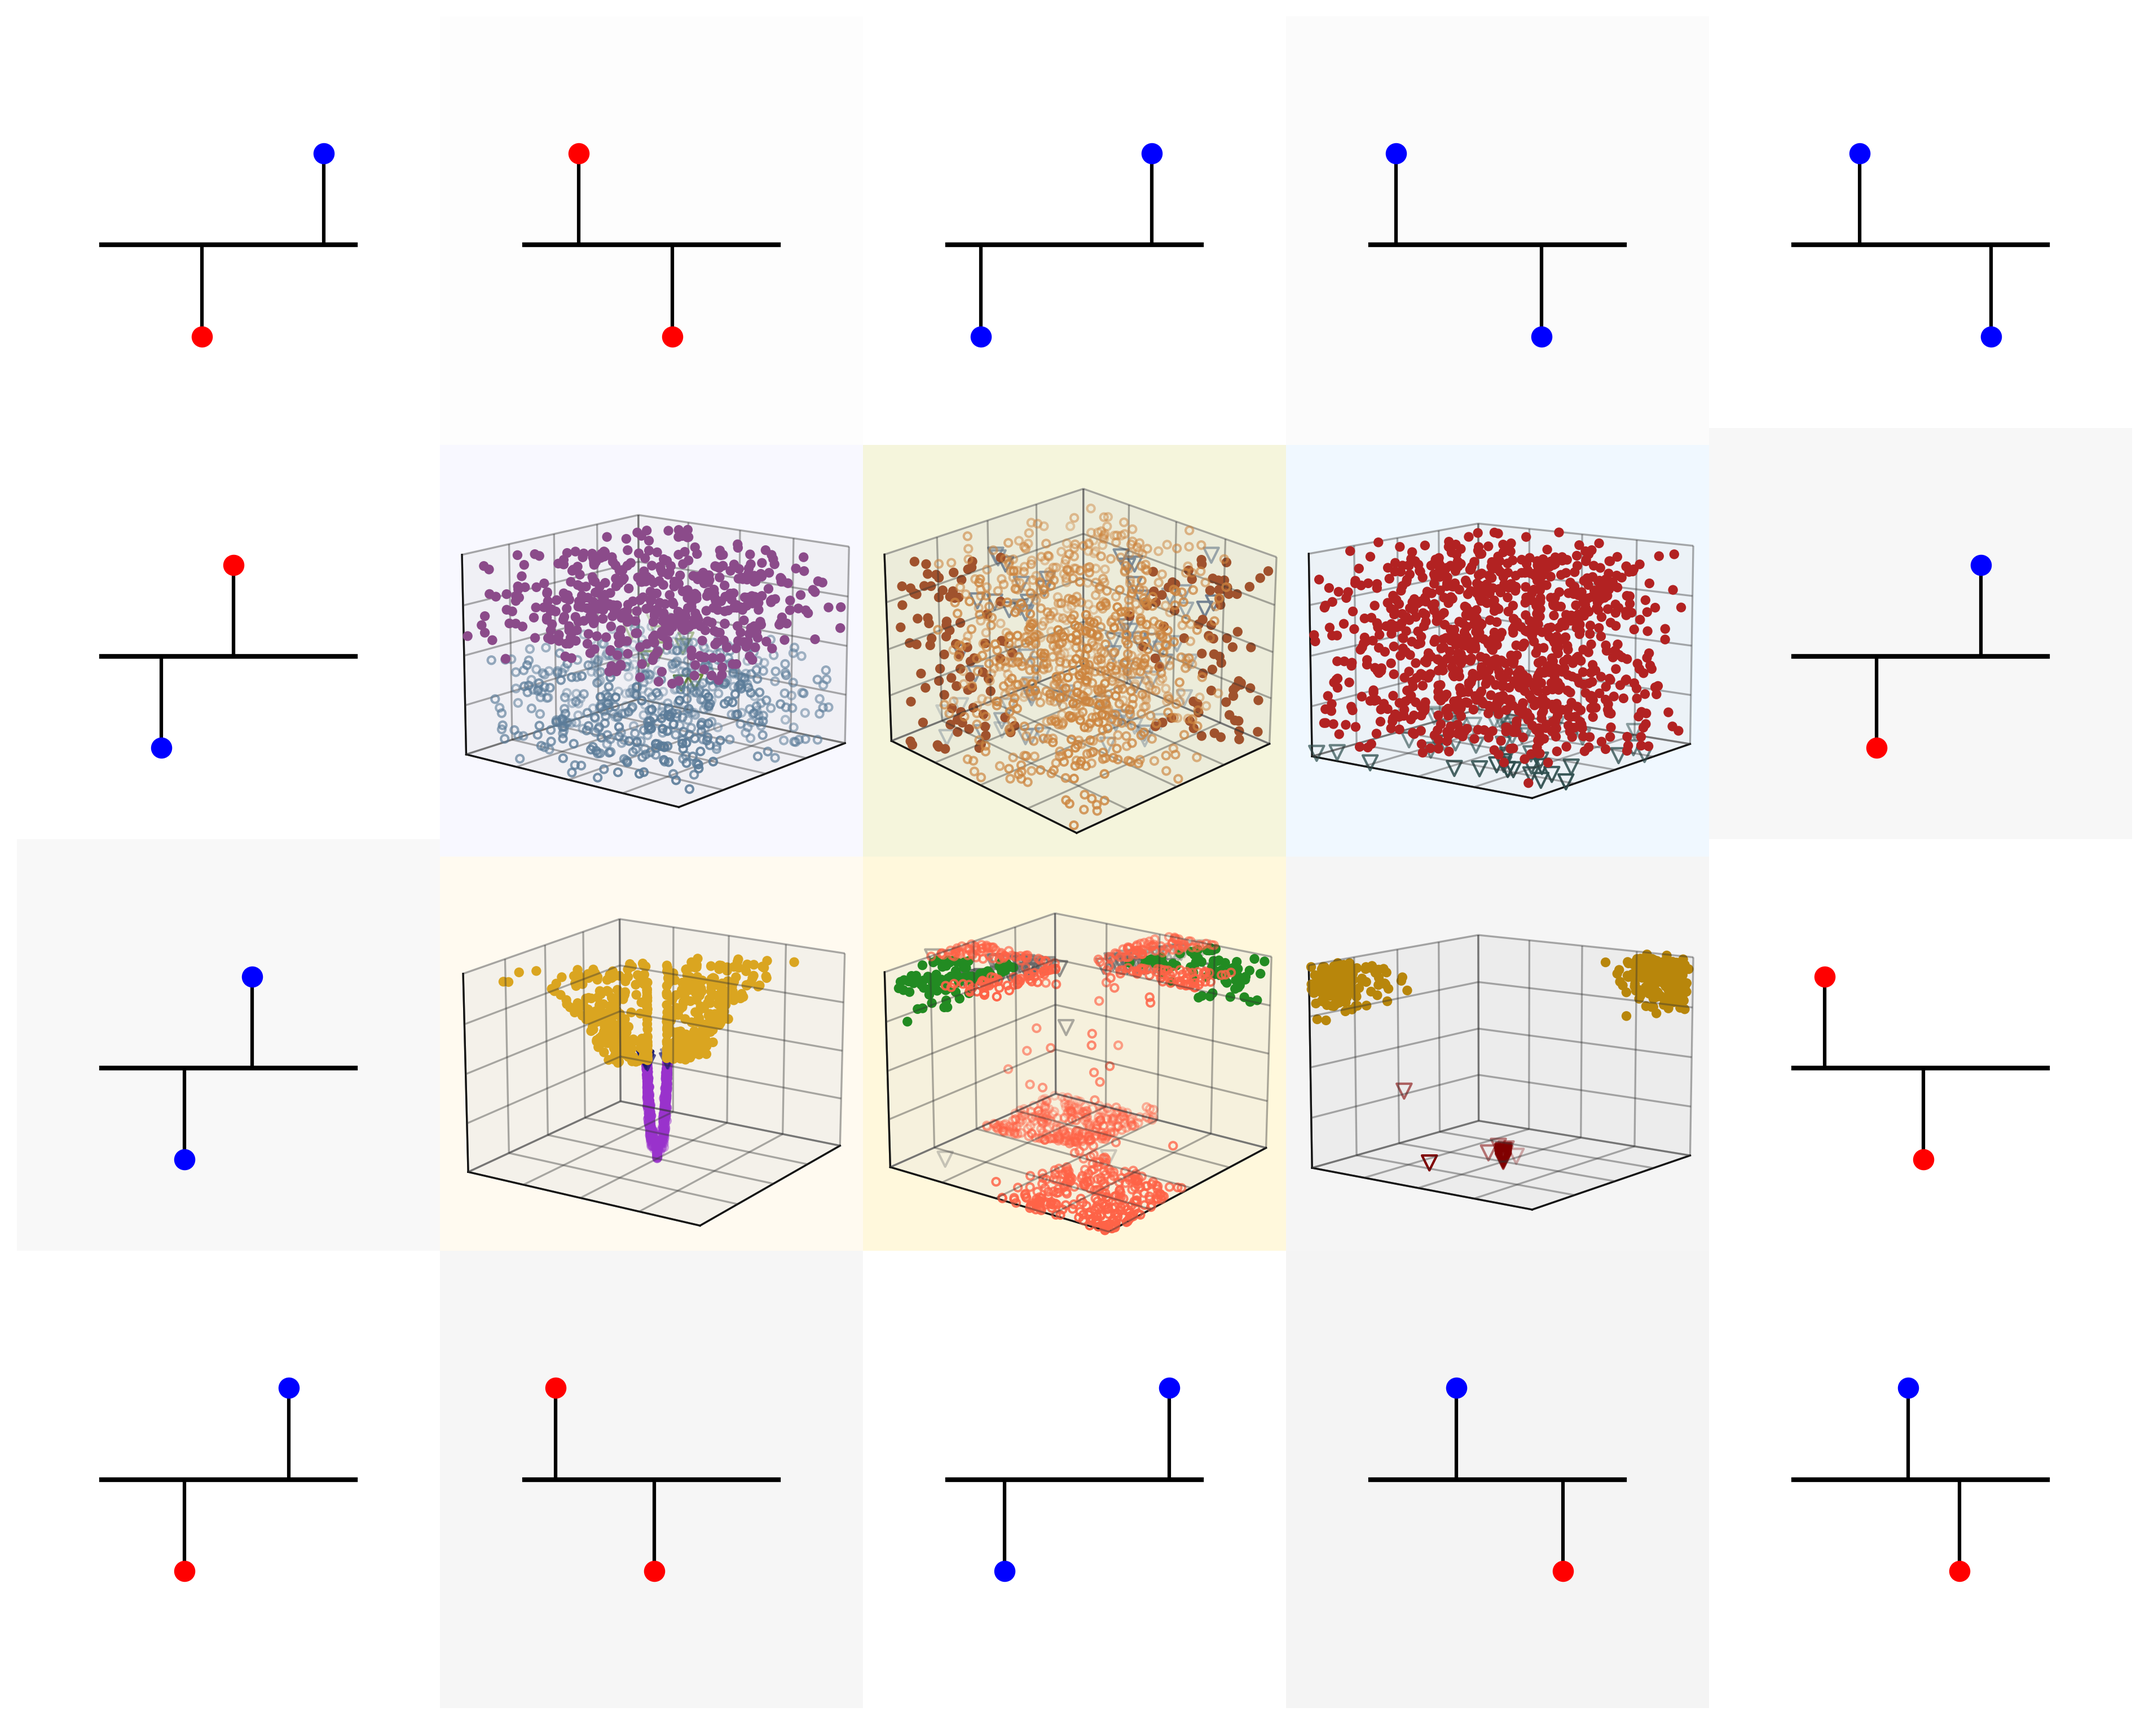
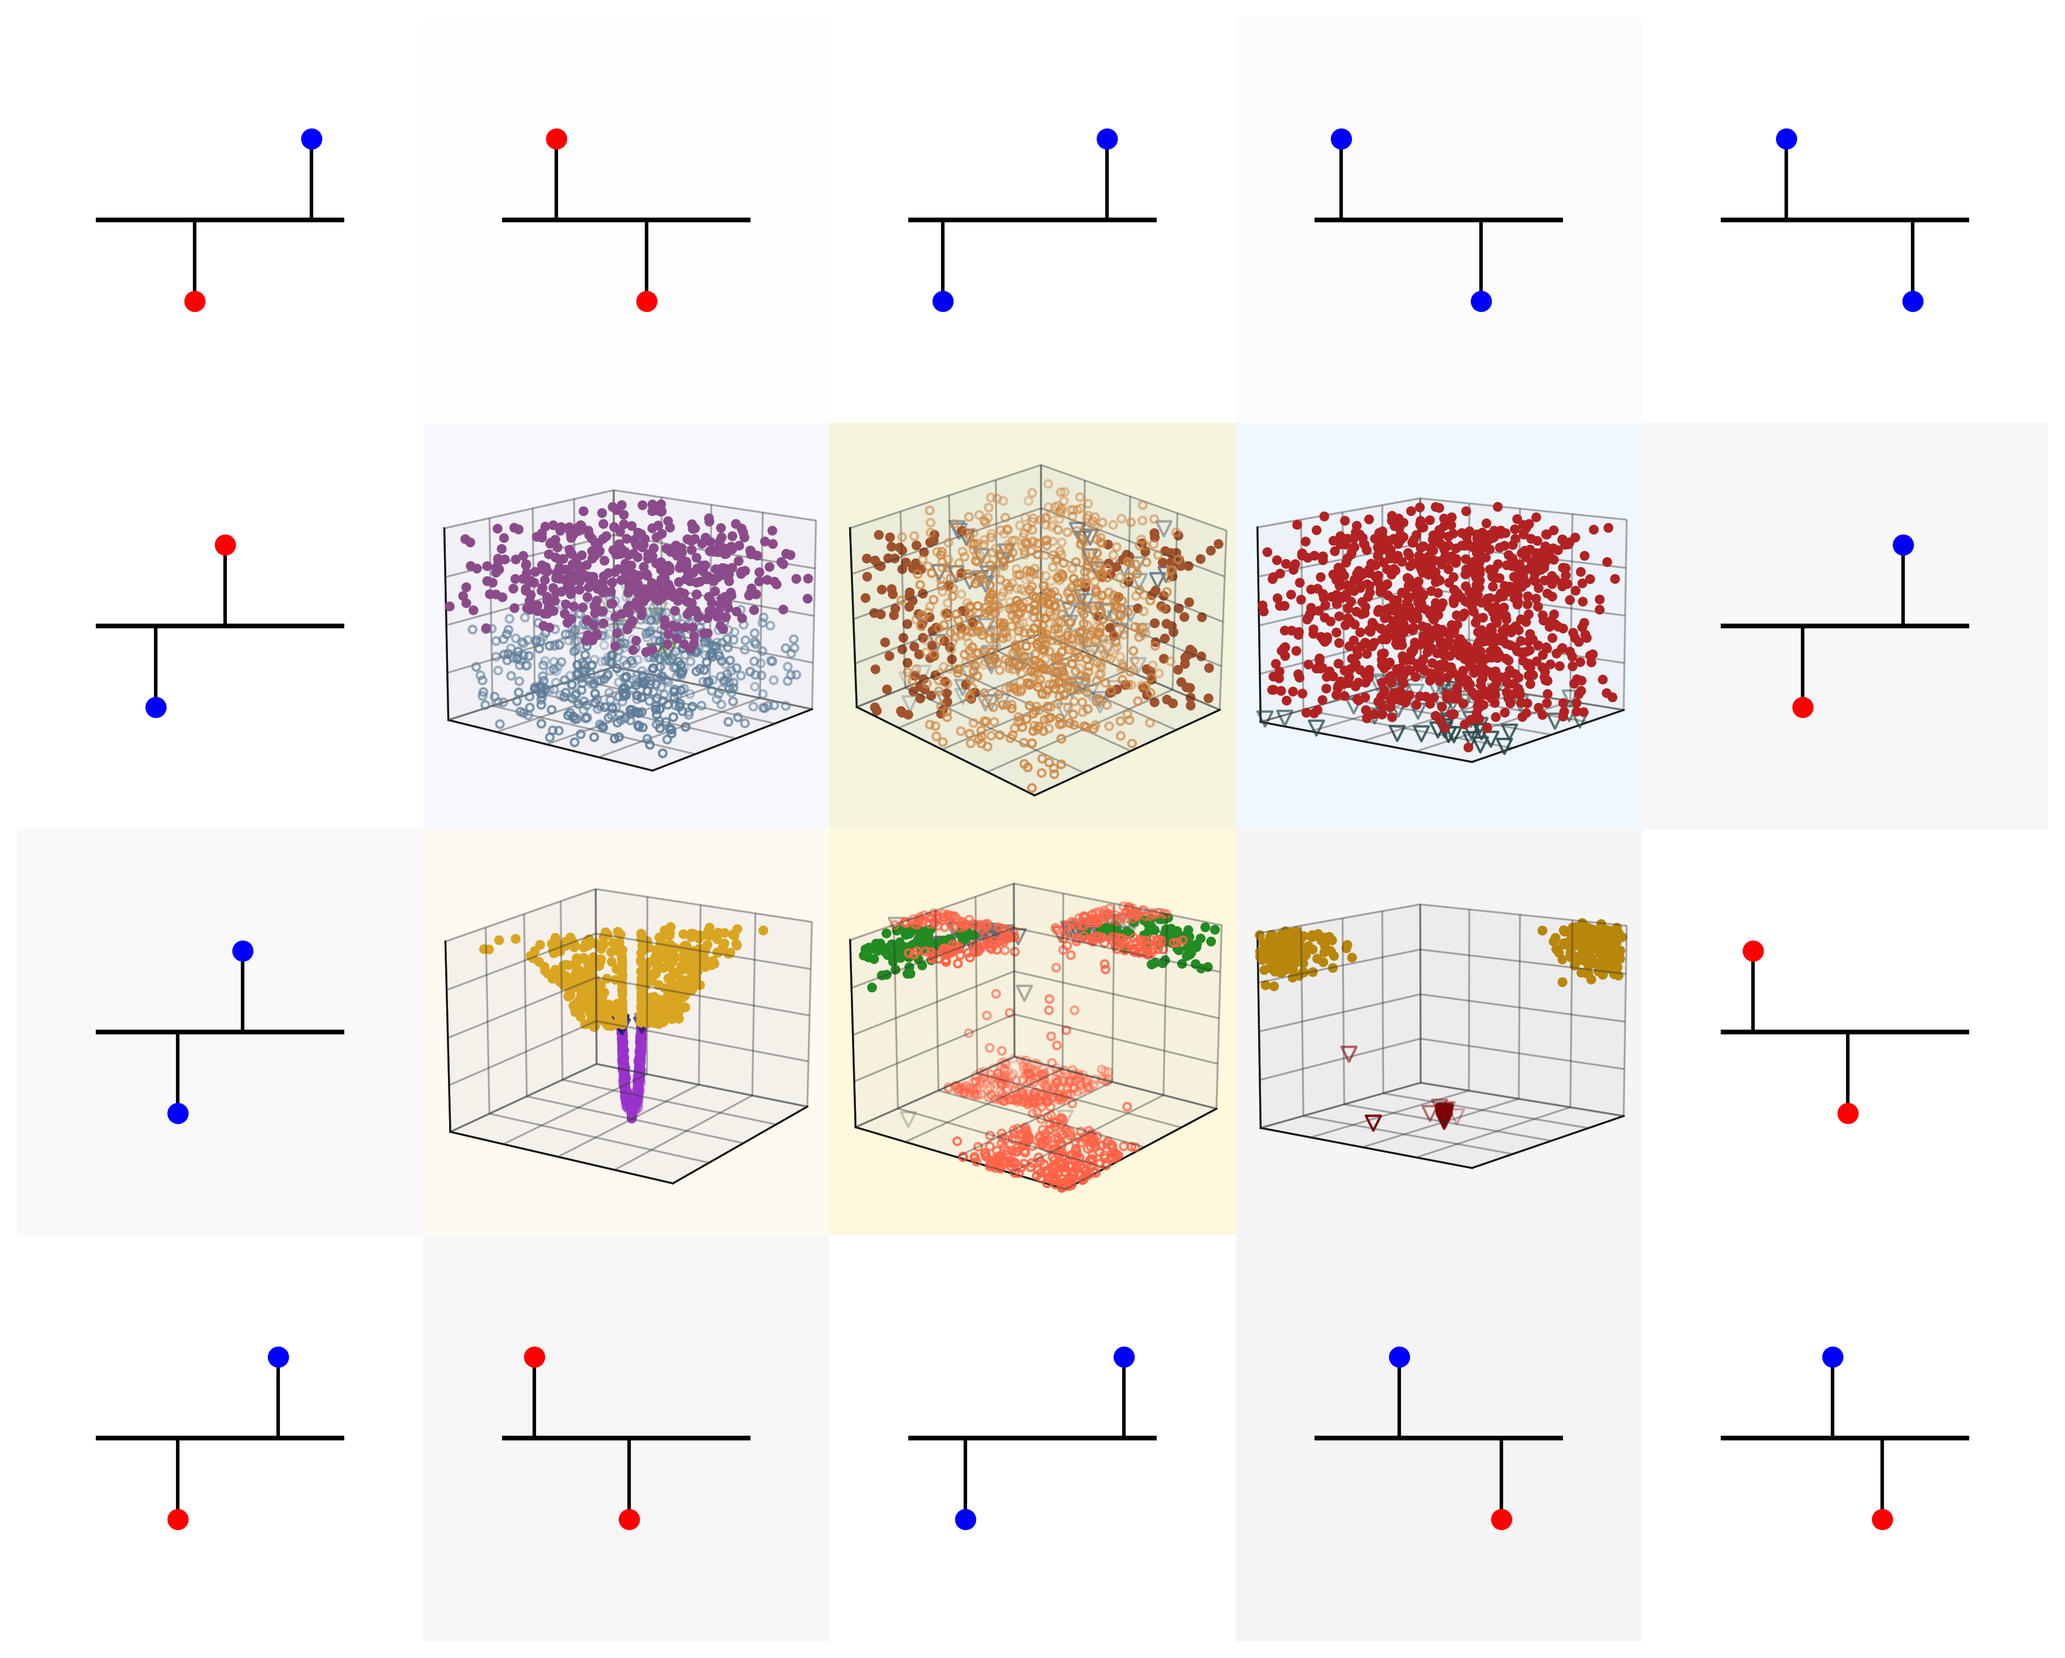
alignment

diff --git a/prettyXOR.py b/prettyXOR.py
@@ -609,7 +609,7 @@ def create_plots():
             ax_dendrite.plot([config['pos2'], config['pos2']], [5, 7], branch_color, linewidth=1.5)
             ax_dendrite.plot(config['pos2'], 7, f'{config["syn2_color"][0]}o', markersize=8)
         
-        plt.subplots_adjust(left=0.0, right=1.0, top=1.0, bottom=0.0, wspace=0.0, hspace=-0.1)
+        plt.subplots_adjust(left=0.02, right=0.98, top=0.98, bottom=0.02, wspace=0.0, hspace=0.0)
         
         # Save figure
         figure_filename = f'XOR/figures_output/XOR_{style_name}.png'
